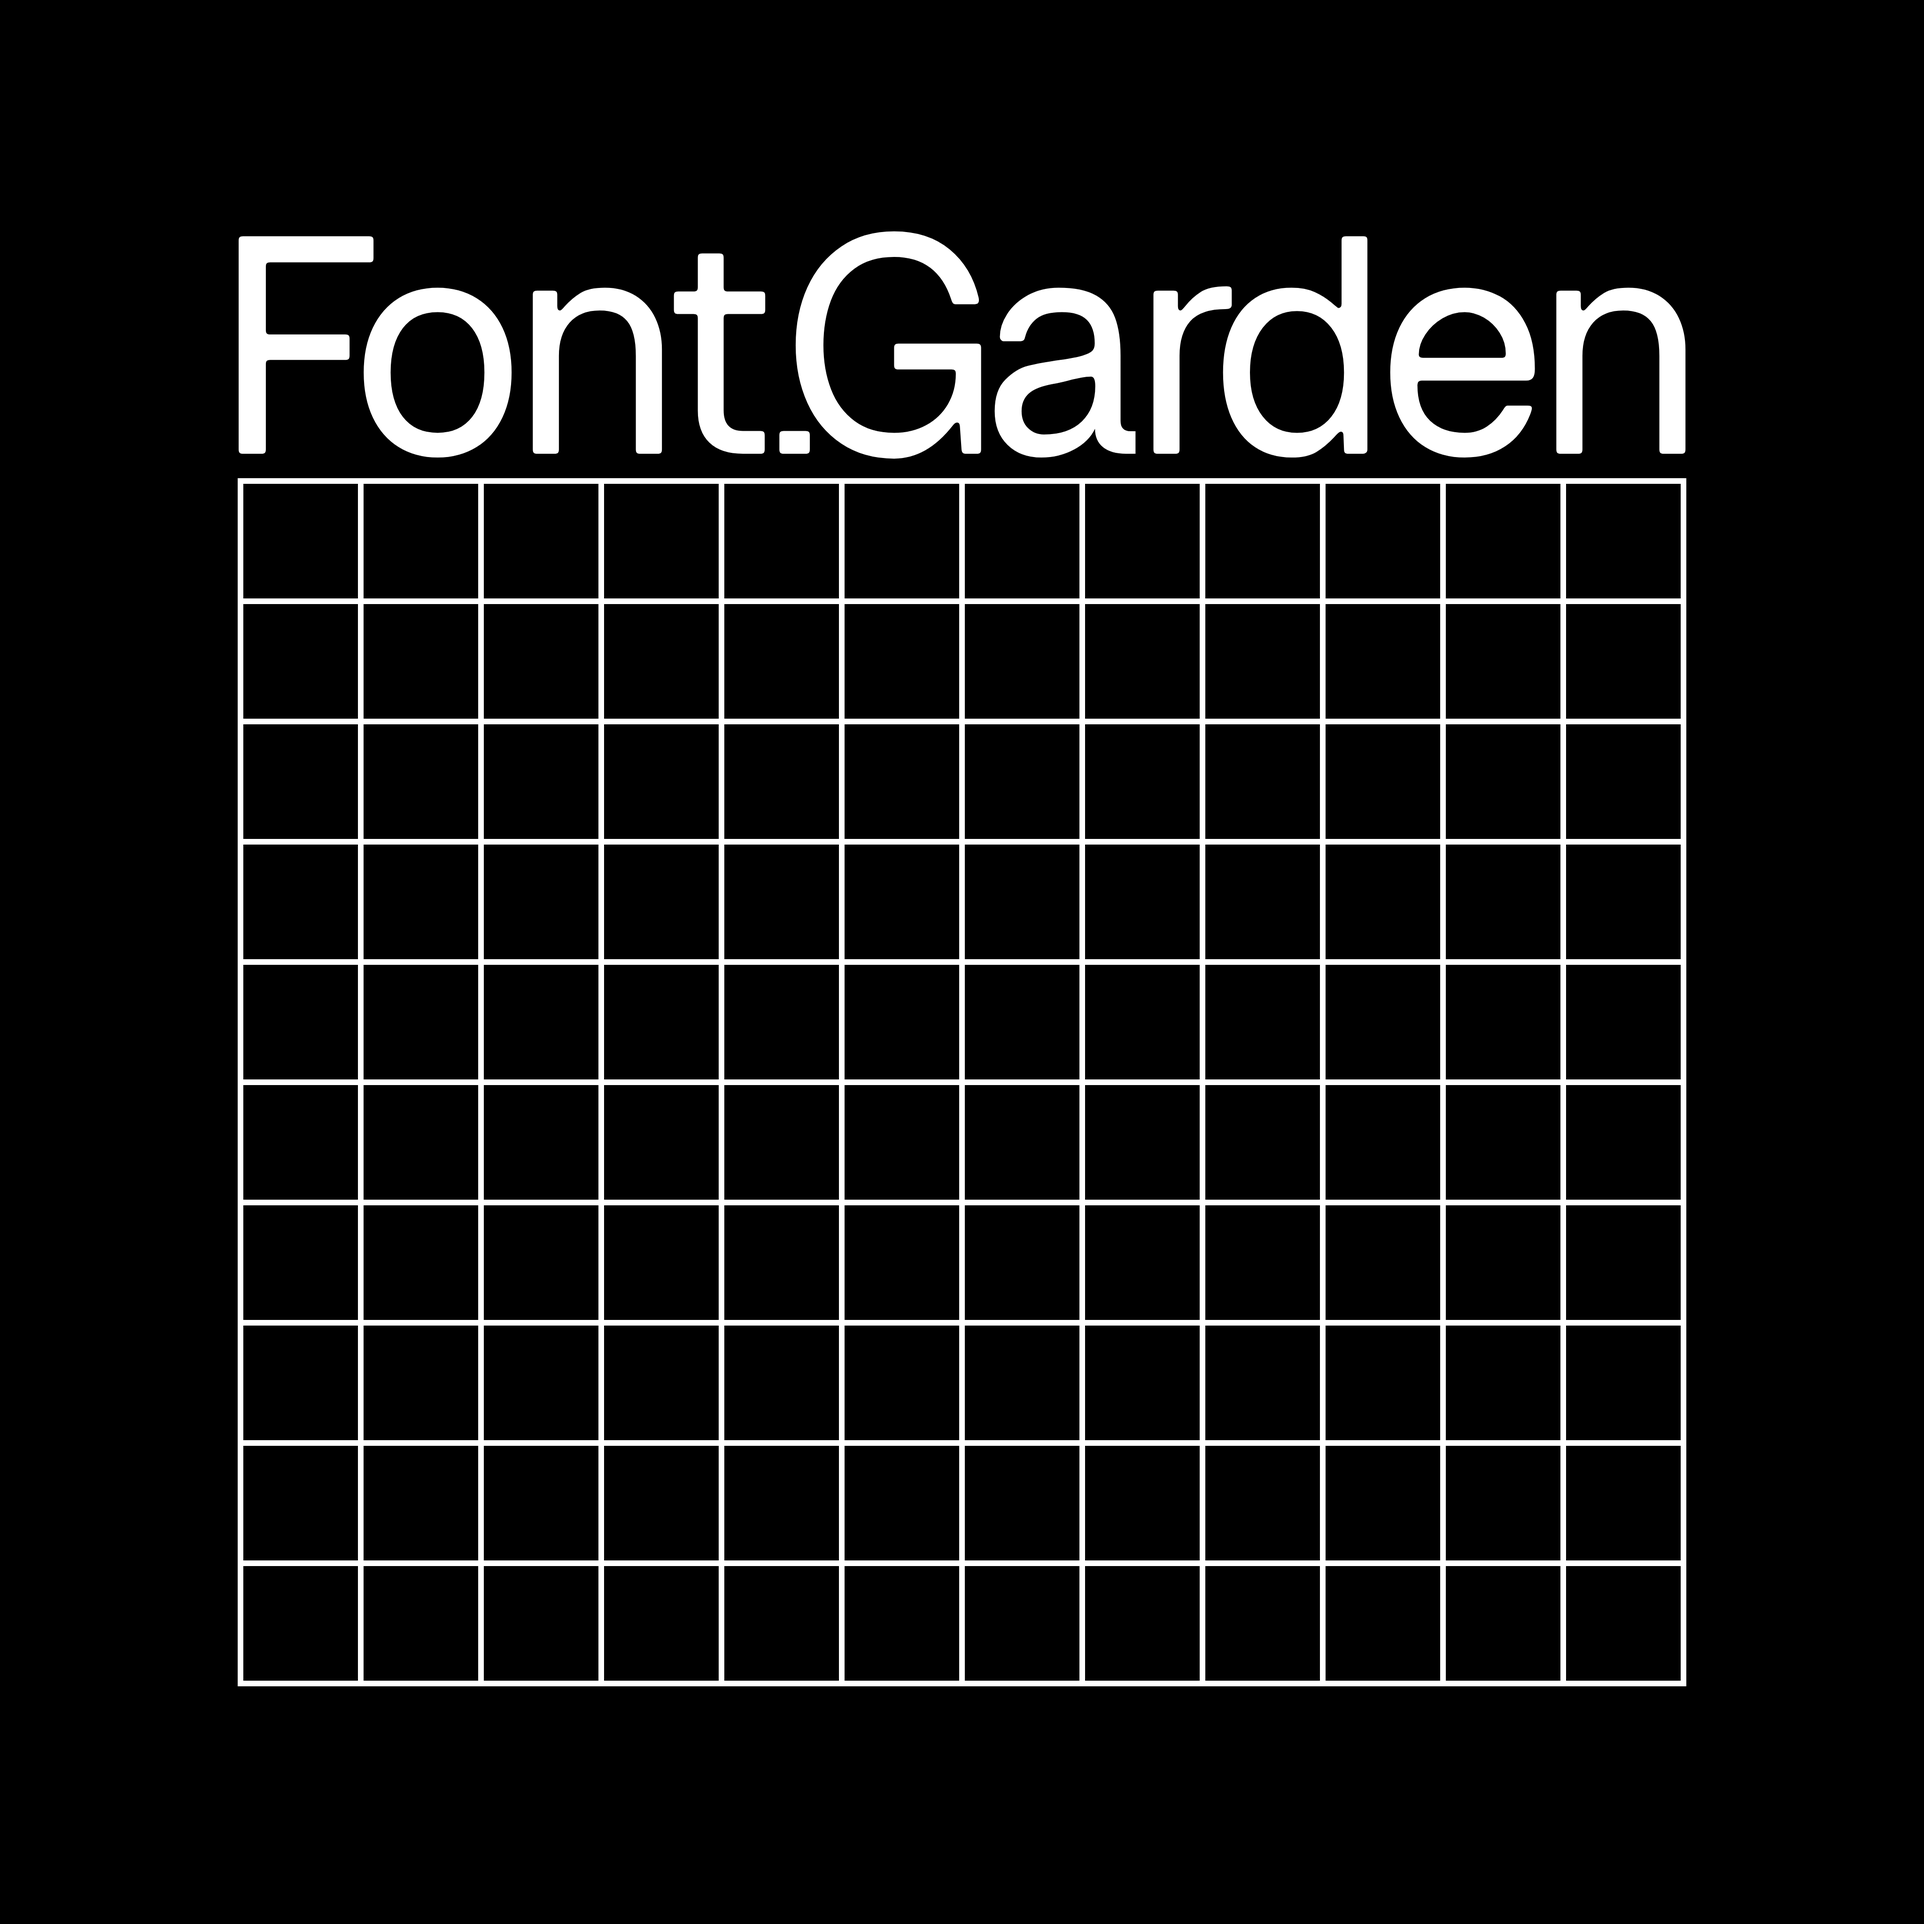
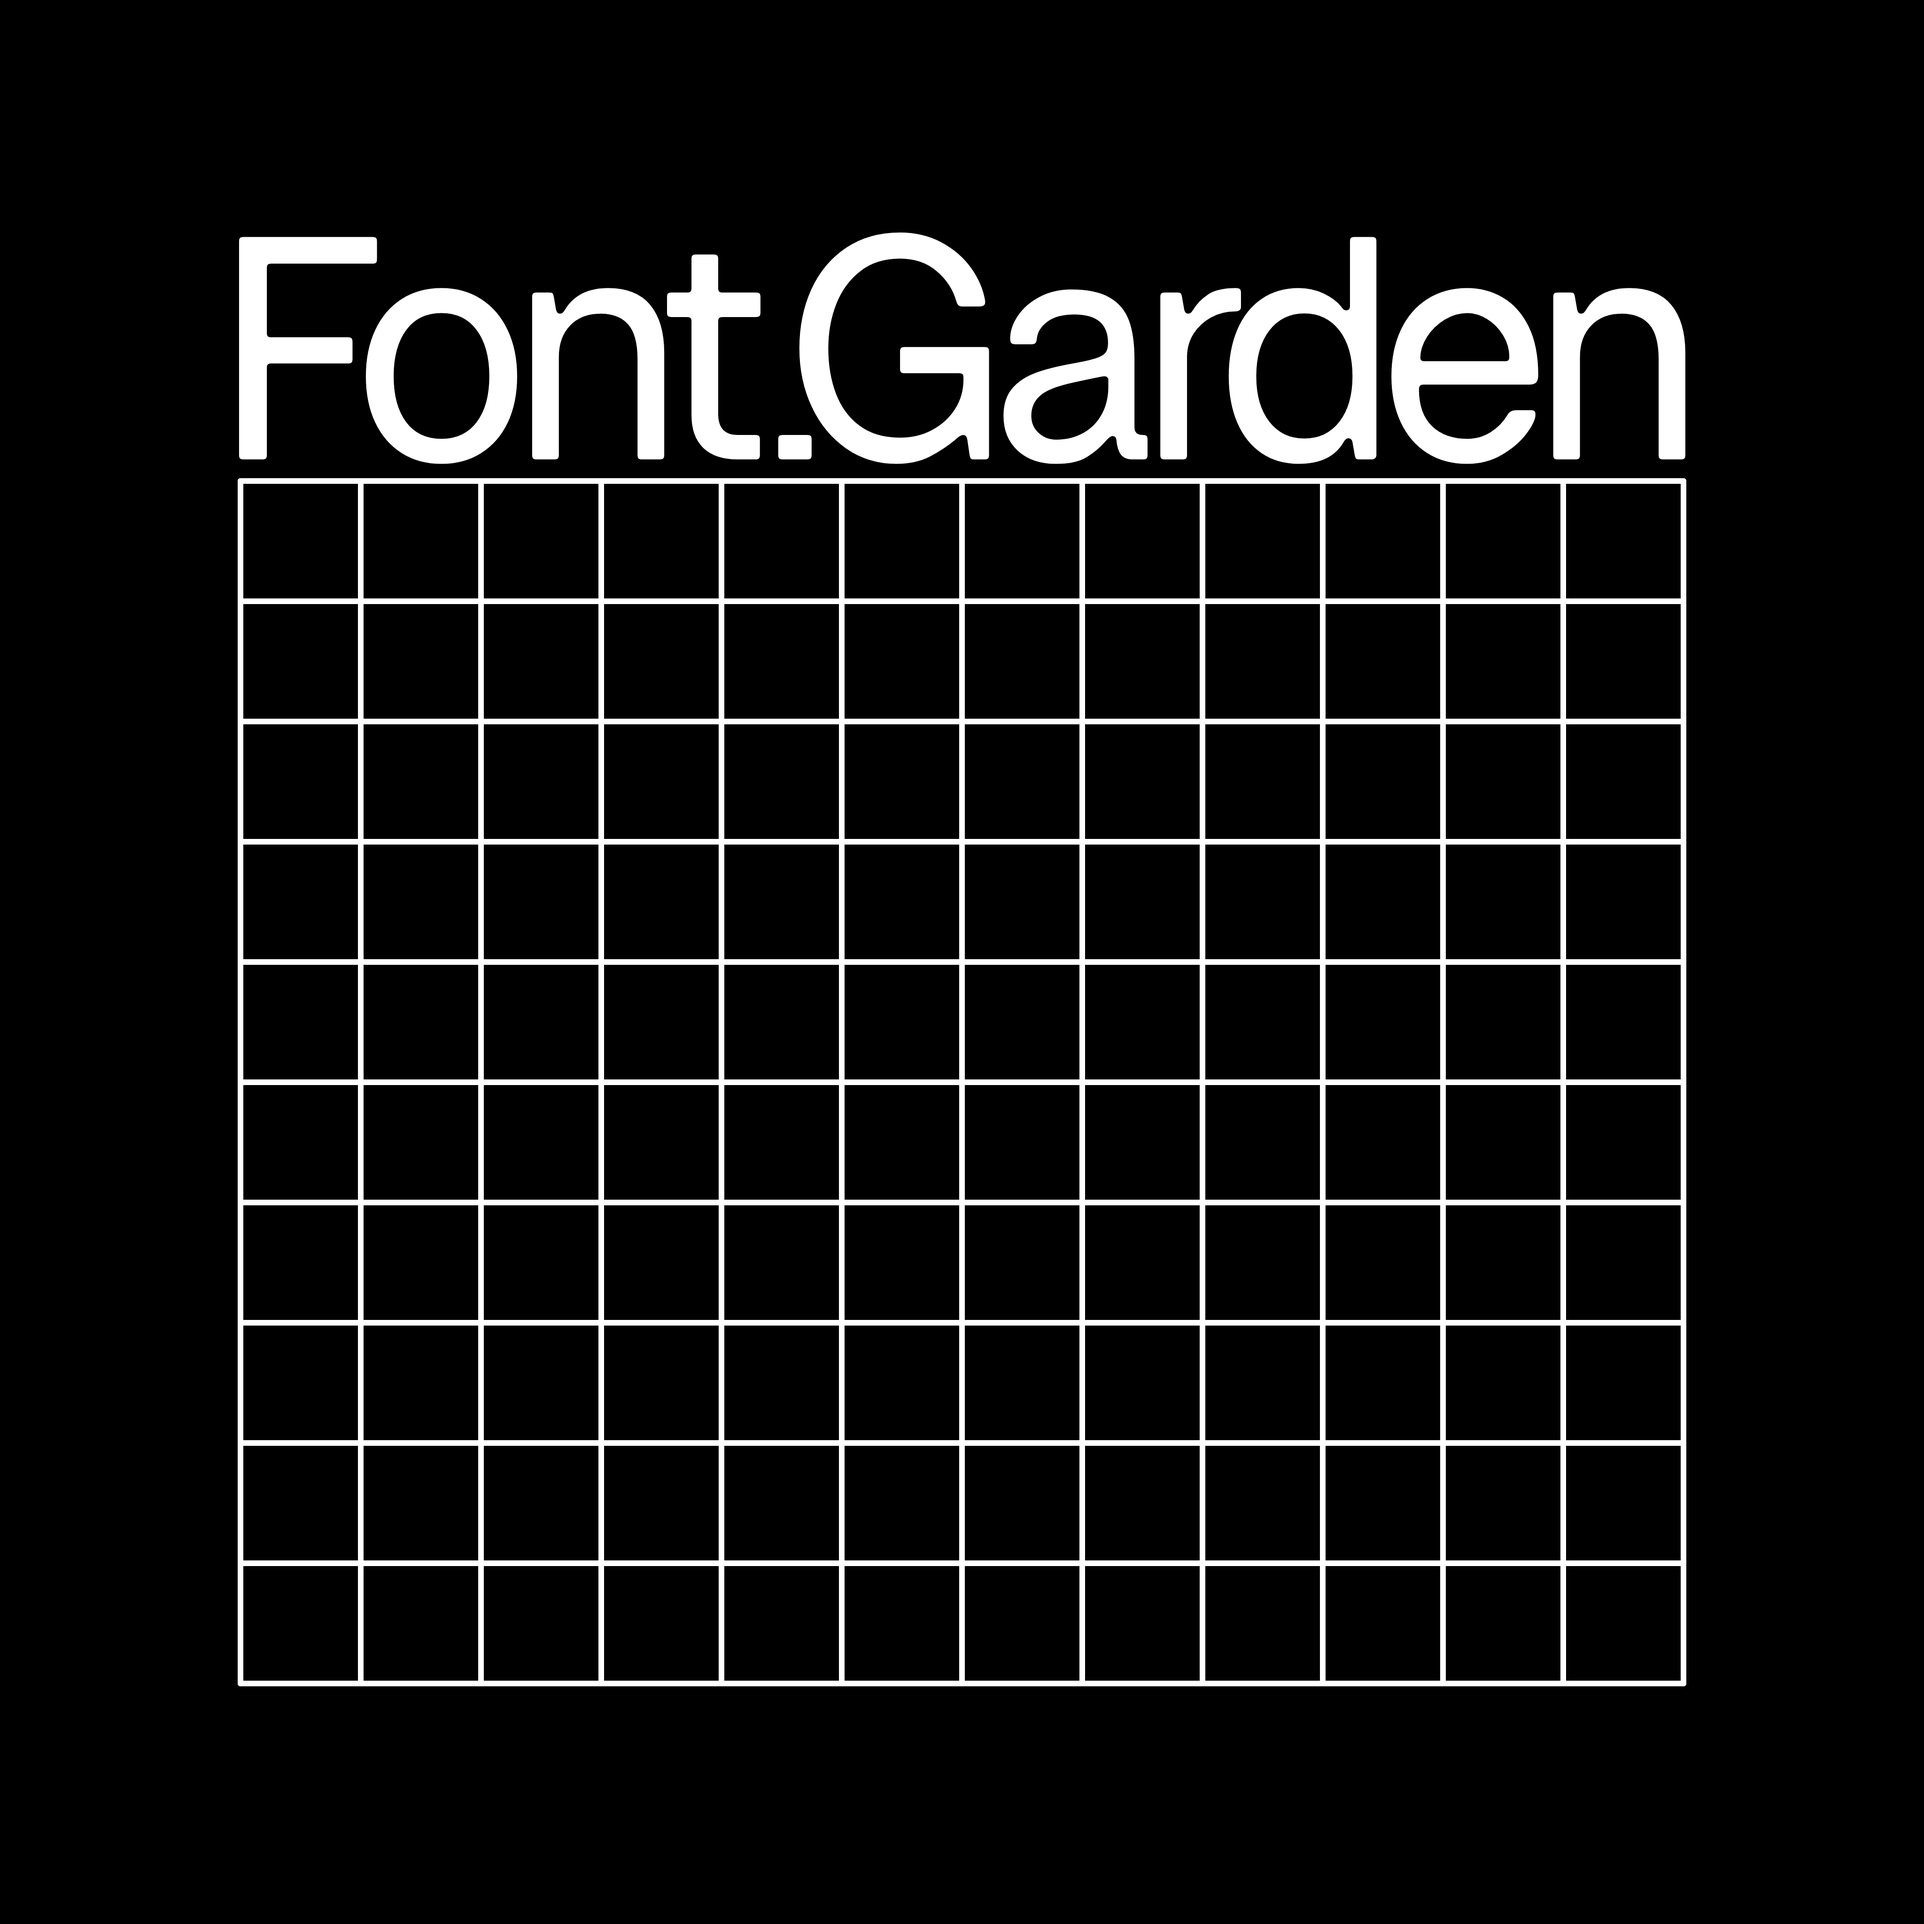
Update images

diff --git a/documentation/image2.py b/documentation/image2.py
@@ -65,6 +65,7 @@ def display_grid():
     fill(None)
     stroke(1, 1, 1, 1)
     strokeWidth(12)
+    lineJoin("round")
     STEP_X, STEP_Y = 0, 0
     INCREMENT_X, INCREMENT_Y = MARGIN / 2, MARGIN / 2
     rect(MARGIN, MARGIN, WIDTH - (MARGIN * 2), HEIGHT - (MARGIN * 3))
@@ -74,8 +75,8 @@ def display_grid():
     for y in range(11):
         polygon((MARGIN, MARGIN + STEP_Y), (WIDTH - MARGIN, MARGIN + STEP_Y))
         STEP_Y += INCREMENT_Y
-    #polygon((WIDTH / 2, 0), (WIDTH / 2, HEIGHT))
-    #polygon((0, HEIGHT / 2), (WIDTH, HEIGHT / 2))
+    # polygon((WIDTH / 2, 0), (WIDTH / 2, HEIGHT))
+    # polygon((0, HEIGHT / 2), (WIDTH, HEIGHT / 2))
 
 
 # Remap input range to VF axis range
@@ -110,15 +111,18 @@ def draw_main_text():
     fontSize(560)
     fontSize(562)
     fontSize(564)
-    fontSize(578.75)
-    #fontSize(552)
-    #text("Font.Garden", (1*MARGIN, (6*MARGIN)+24))
-    text("Font.Garden", (0.92*MARGIN, (6*MARGIN)+58))
+    fontSize(592)
+    # fontSize(552)
+    # text("Font.Garden", (1*MARGIN, (6*MARGIN)+24))
+    text("Font.Garden", (0.92 * MARGIN, (6 * MARGIN) + 46))
+
 
 # Draw rects
 def draw_rects():
     fill(1)
     stroke(None)
+
+
 #    rect(1*MARGIN, 1*MARGIN, 0.5*MARGIN, 0.5*MARGIN)
 #    rect(2*MARGIN, 1*MARGIN, 0.5*MARGIN, 0.5*MARGIN)
 #    rect(3*MARGIN, 1*MARGIN, 0.5*MARGIN, 0.5*MARGIN)

diff --git a/README.md b/README.md
@@ -1,7 +1,4 @@
 # FG Grotesk
 
-![001](documentation/image1.png)
 ![002](documentation/image2.png)
-![002](documentation/image2-001.png)
-![002](documentation/image2-002.png)
 ![002](documentation/image3.png)
